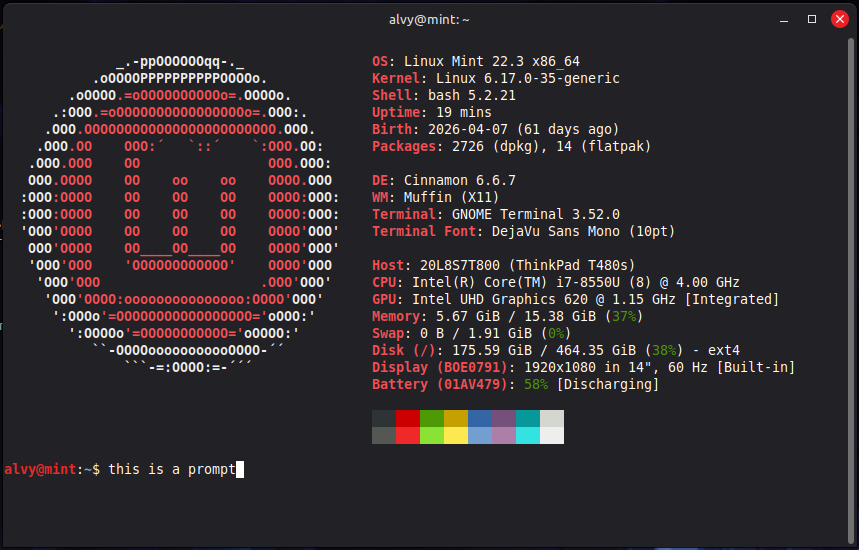
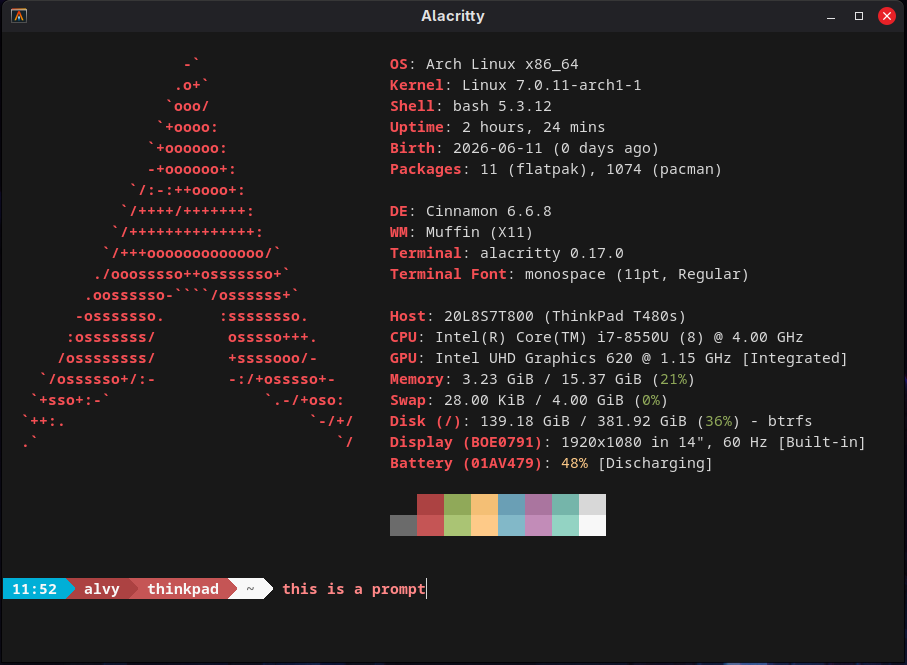
help

diff --git a/README.md b/README.md
@@ -1,6 +1,8 @@
 ## ℹ Contains configuration files for
 
 - [Fastfetch](https://github.com/fastfetch-cli/fastfetch)
+- [Synth Shell](https://github.com/andresgongora/synth-shell)
+- [Alacritty](https://github.com/alacritty/alacritty)
 
 ## 💻 Preview:
 <img src="screenshot.png" width="65%" />
